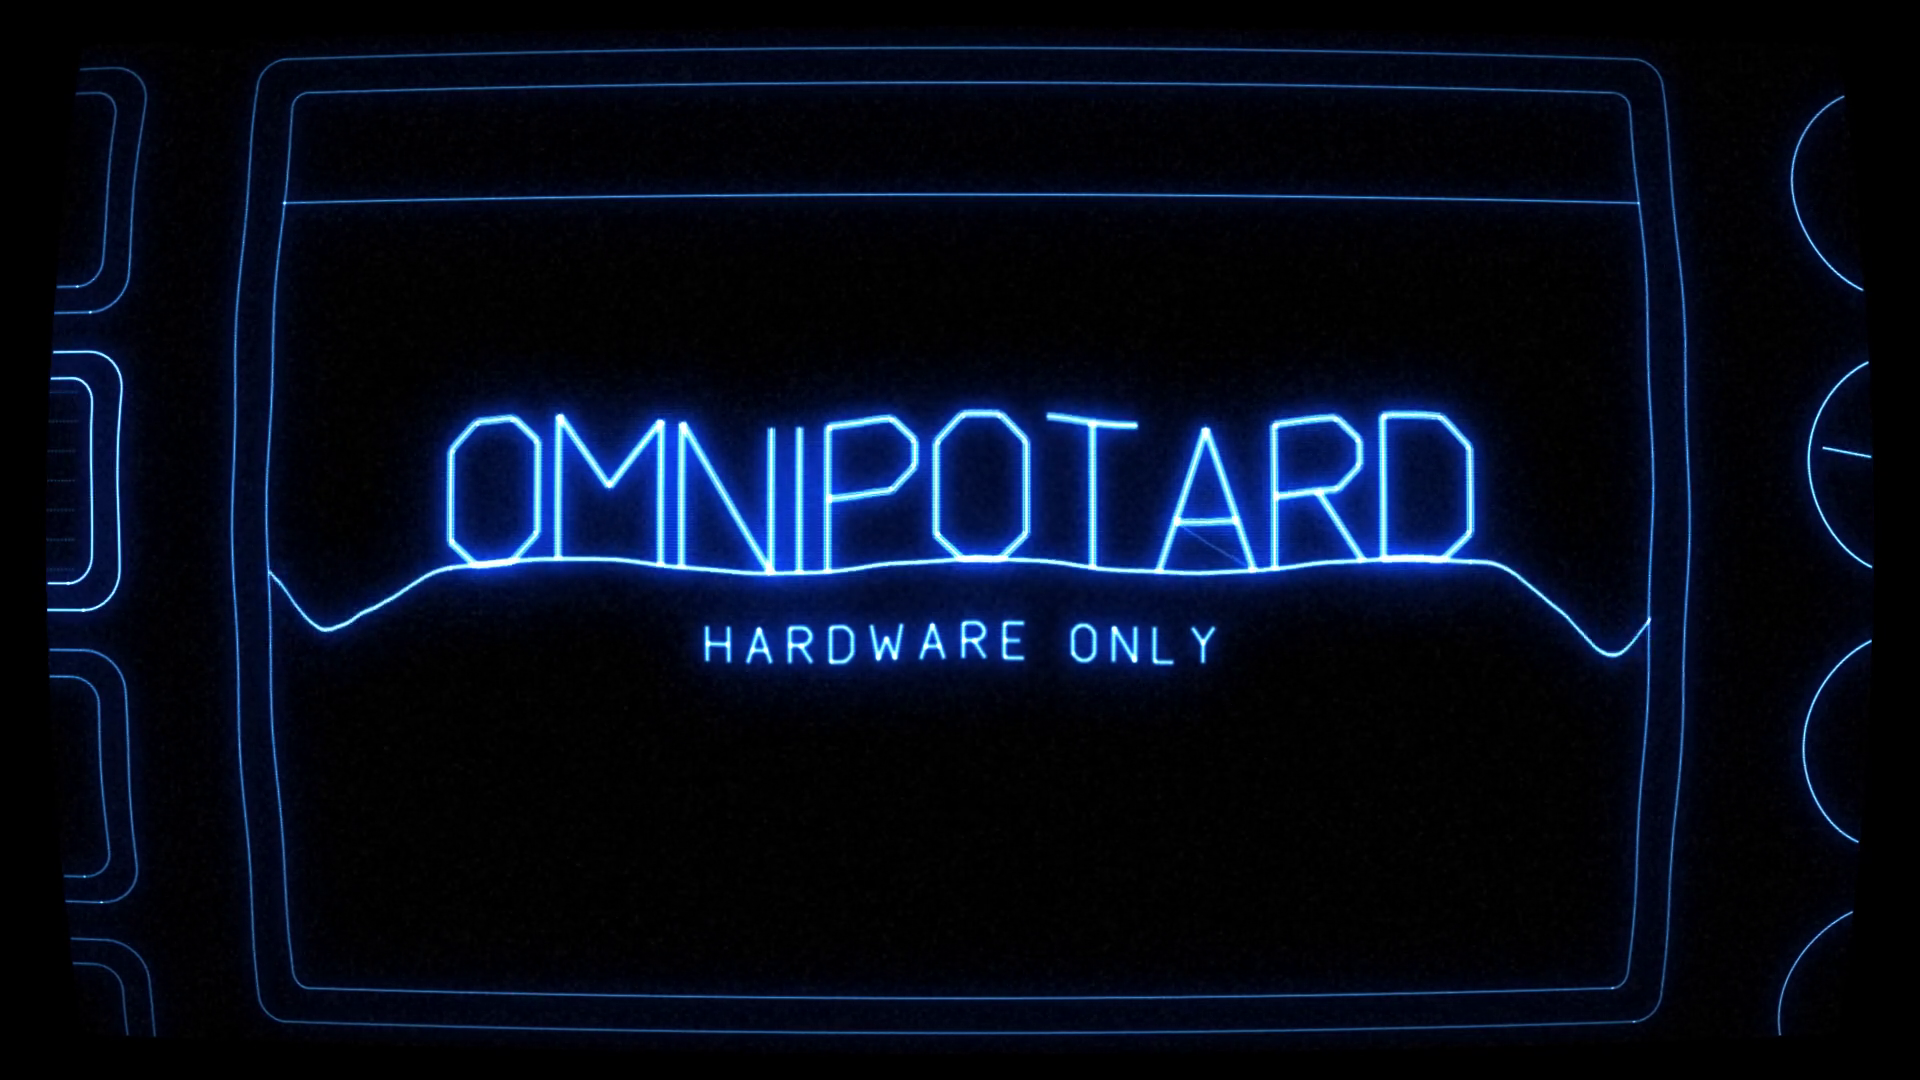
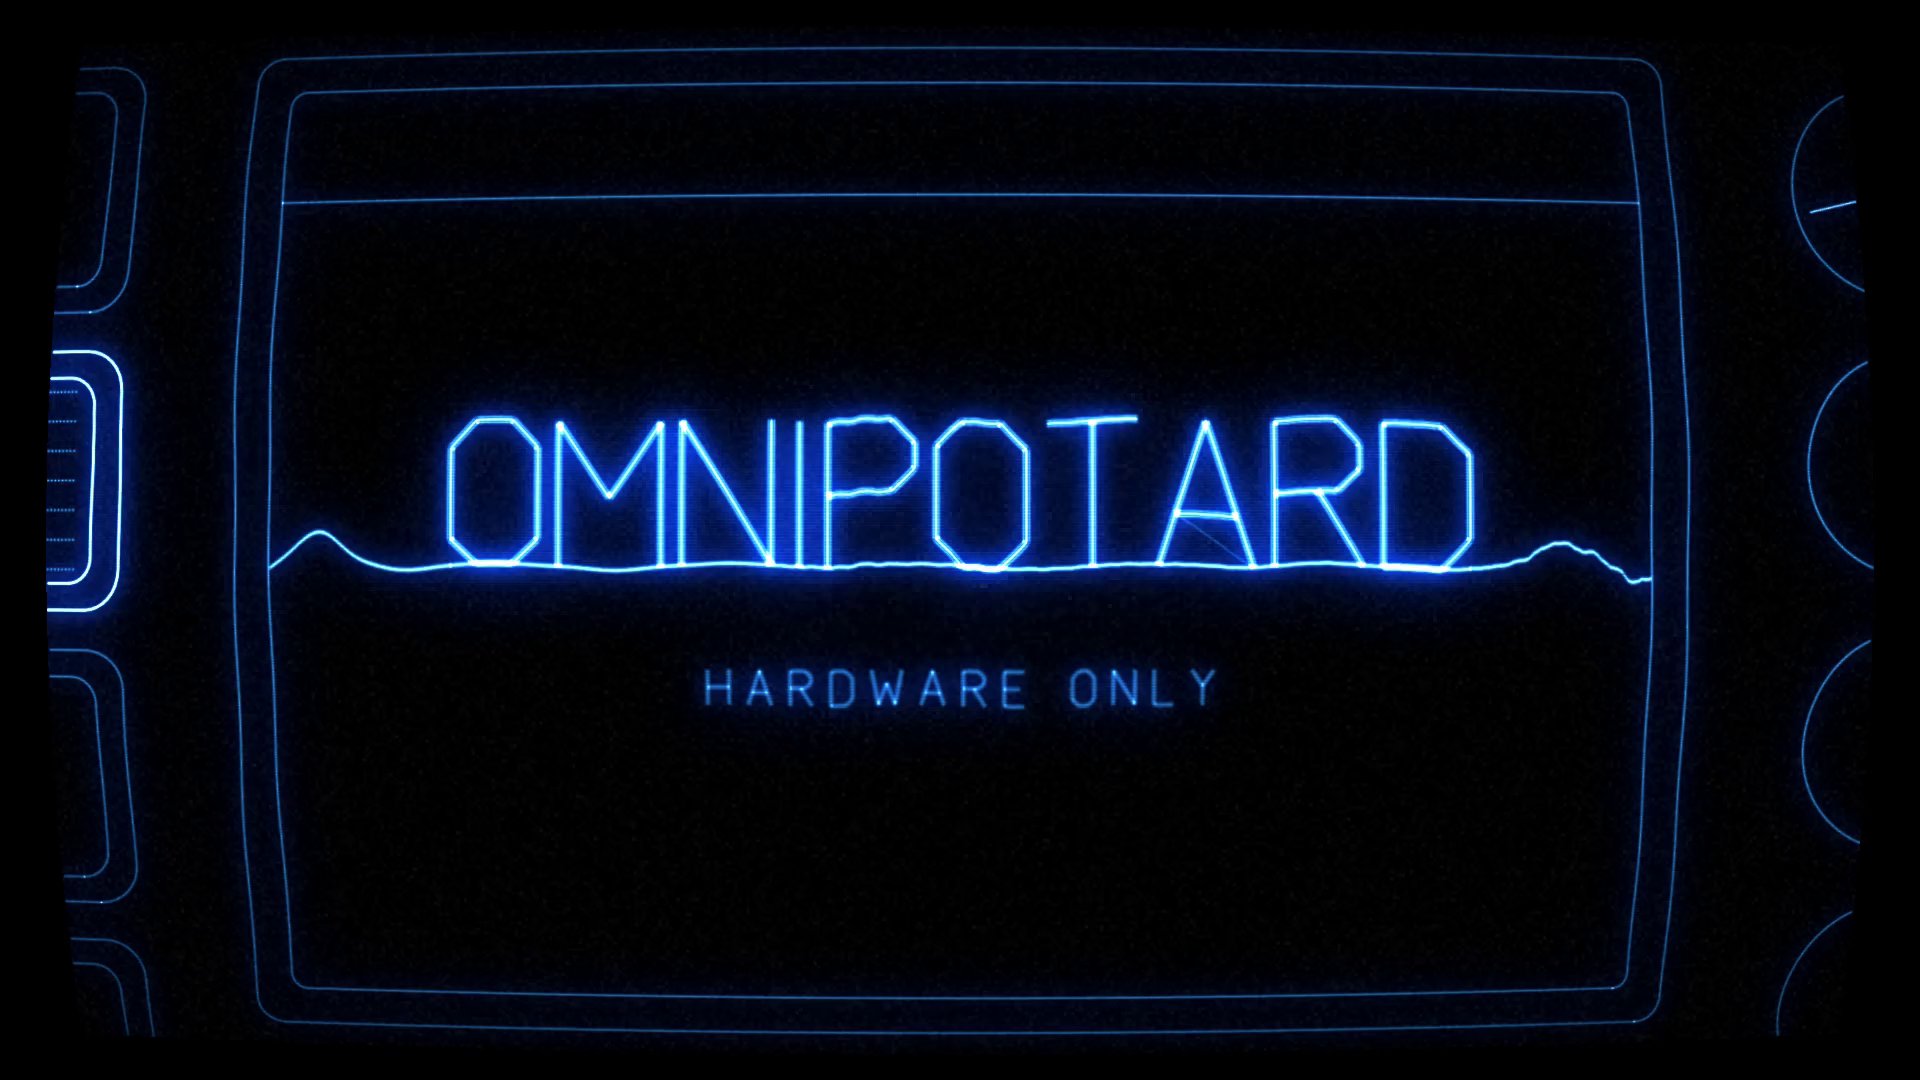
Supprime la croix du reticule, HARDWARE ONLY plus fonce et plus bas
- La croix plein ecran (deux axes traversant toute l'image) est retiree du
  reticule d'oscilloscope ; le semis de points/lignes courtes qui donne
  l'ambiance reste en place.
- HARDWARE ONLY descend nettement plus bas sous OMNIPOTARD (SUB_Y -0,175 ->
  -0,260) et perd en intensite lumineuse (poids reduit d'environ moitie,
  y compris sur le flash d'apparition) pour rester visiblement plus fonce
  que le logo.
- Prepare le rendu 4K (out/omnipotard_intro_4k.mp4, non versionne comme les
  autres masters).

Claude-Session: https://claude.ai/code/session_01GX8QgDCpZfSKkT6ycQpRqH

diff --git a/tools/omnipotard_intro.py b/tools/omnipotard_intro.py
@@ -782,7 +782,7 @@ WAVE_YMAX = 0.36
 DAW_COLS = 560
 
 SUB_TXT = "HARDWARE ONLY"
-SUB_H, SUB_Y, SUB_TRACK = 0.065, -0.175, 0.55
+SUB_H, SUB_Y, SUB_TRACK = 0.065, -0.260, 0.55   # plus bas, plus loin du logo
 WEIGHT_OF = {ONDE: 0.80, TRAIT: 1.15, TRANSIT: 0.10, LIAISON: 0.80}
 THICK_OF = {ONDE: 0.0030, TRAIT: 0.0052, TRANSIT: 0.0, LIAISON: 0.0030}
 
@@ -1016,10 +1016,6 @@ class Renderer:
             P = np.stack([np.linspace(-1.66, 1.66, 380), np.full(380, y)], axis=1)
             px, py = self.to_px(P, collapse)
             beam.add(px, py, 0.080 * alpha)
-        for P in (np.stack([np.linspace(-1.68, 1.68, 900), np.zeros(900)], axis=1),
-                  np.stack([np.zeros(560), np.linspace(-0.95, 0.95, 560)], axis=1)):
-            px, py = self.to_px(P, collapse)
-            beam.add(px, py, 0.15 * alpha)
 
     def _hud(self, beam, t, collapse, alpha):
         if alpha <= 0.01:
@@ -1358,7 +1354,7 @@ class Renderer:
         P = self.subP.copy()
         P[:, 1] = P[:, 1] + 0.030 * self.wave_y(P[:, 0], t)
         P[:, 0] = P[:, 0] + dx
-        w = 0.78 * k + 1.30 * np.exp(-((k - 0.60) / 0.30) ** 2) * (u < 1.0)
+        w = 0.40 * k + 0.55 * np.exp(-((k - 0.60) / 0.30) ** 2) * (u < 1.0)  # plus fonce
         if u_out > 0:
             w = w * max(0.0, 1.0 - u_out * 1.35)
         th = (0.0032 * k)[:, None]

diff --git a/README.md b/README.md
@@ -87,7 +87,7 @@ donnent le même fichier au bit près. Environ 2 min sur 4 cœurs.
 ### Options utiles
 
 ```bash
-# 4K
+# 4K (le rendu est plus long, mais la meme luminosite qu'en 1080p)
 python3 tools/omnipotard_intro.py -W 3840 -H 2160 -o out/intro_4k.mp4
 
 # format vertical (shorts / reels) — la machine reste cadrée automatiquement
